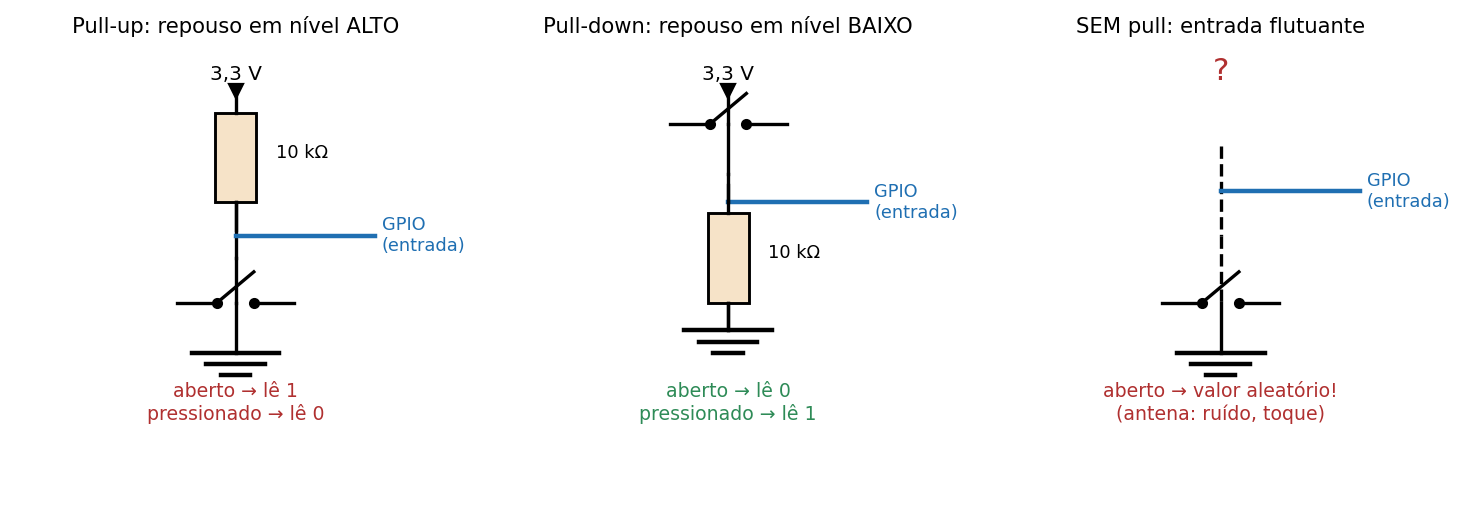
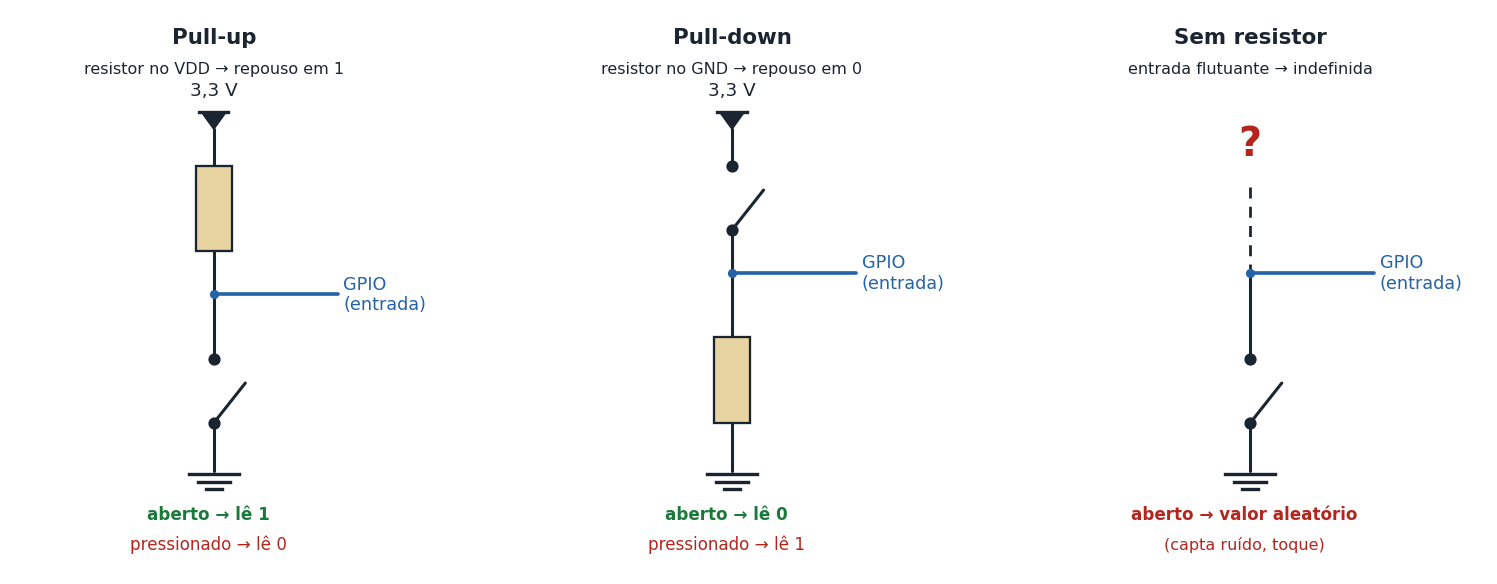
Update from https://github.com/fabiobento/sis-emb-2026-2-privado/commit/30e799a234ae0ef00876000b4b179d1d42b26caa

diff --git a/semana-03/teoria-03.md b/semana-03/teoria-03.md
@@ -4,7 +4,7 @@
 > **Como usar**: texto autossuficiente. Tenha papel à mão: os Exemplos 3.1–3.3 são o modelo
 > exato das questões 11–15 da Lista 1. Todos os trechos de C rodam no Wokwi — experimente.
 
-Você já sabe *o que* é um registrador (semana 2). Esta aula ensina a **linguagem** para falar
+Você já sabe *o que* é um registrador (semana 2). Esta aula ensina a **linguagem** para "falar"
 com eles — o subconjunto de C que todo firmware usa: tipos de largura fixa, operações bit a
 bit, `volatile`, ponteiros para endereços físicos. Na segunda metade, aplicamos tudo ao
 periférico fundamental, o **GPIO**, agora pelo lado da eletrônica: quanta corrente um pino
